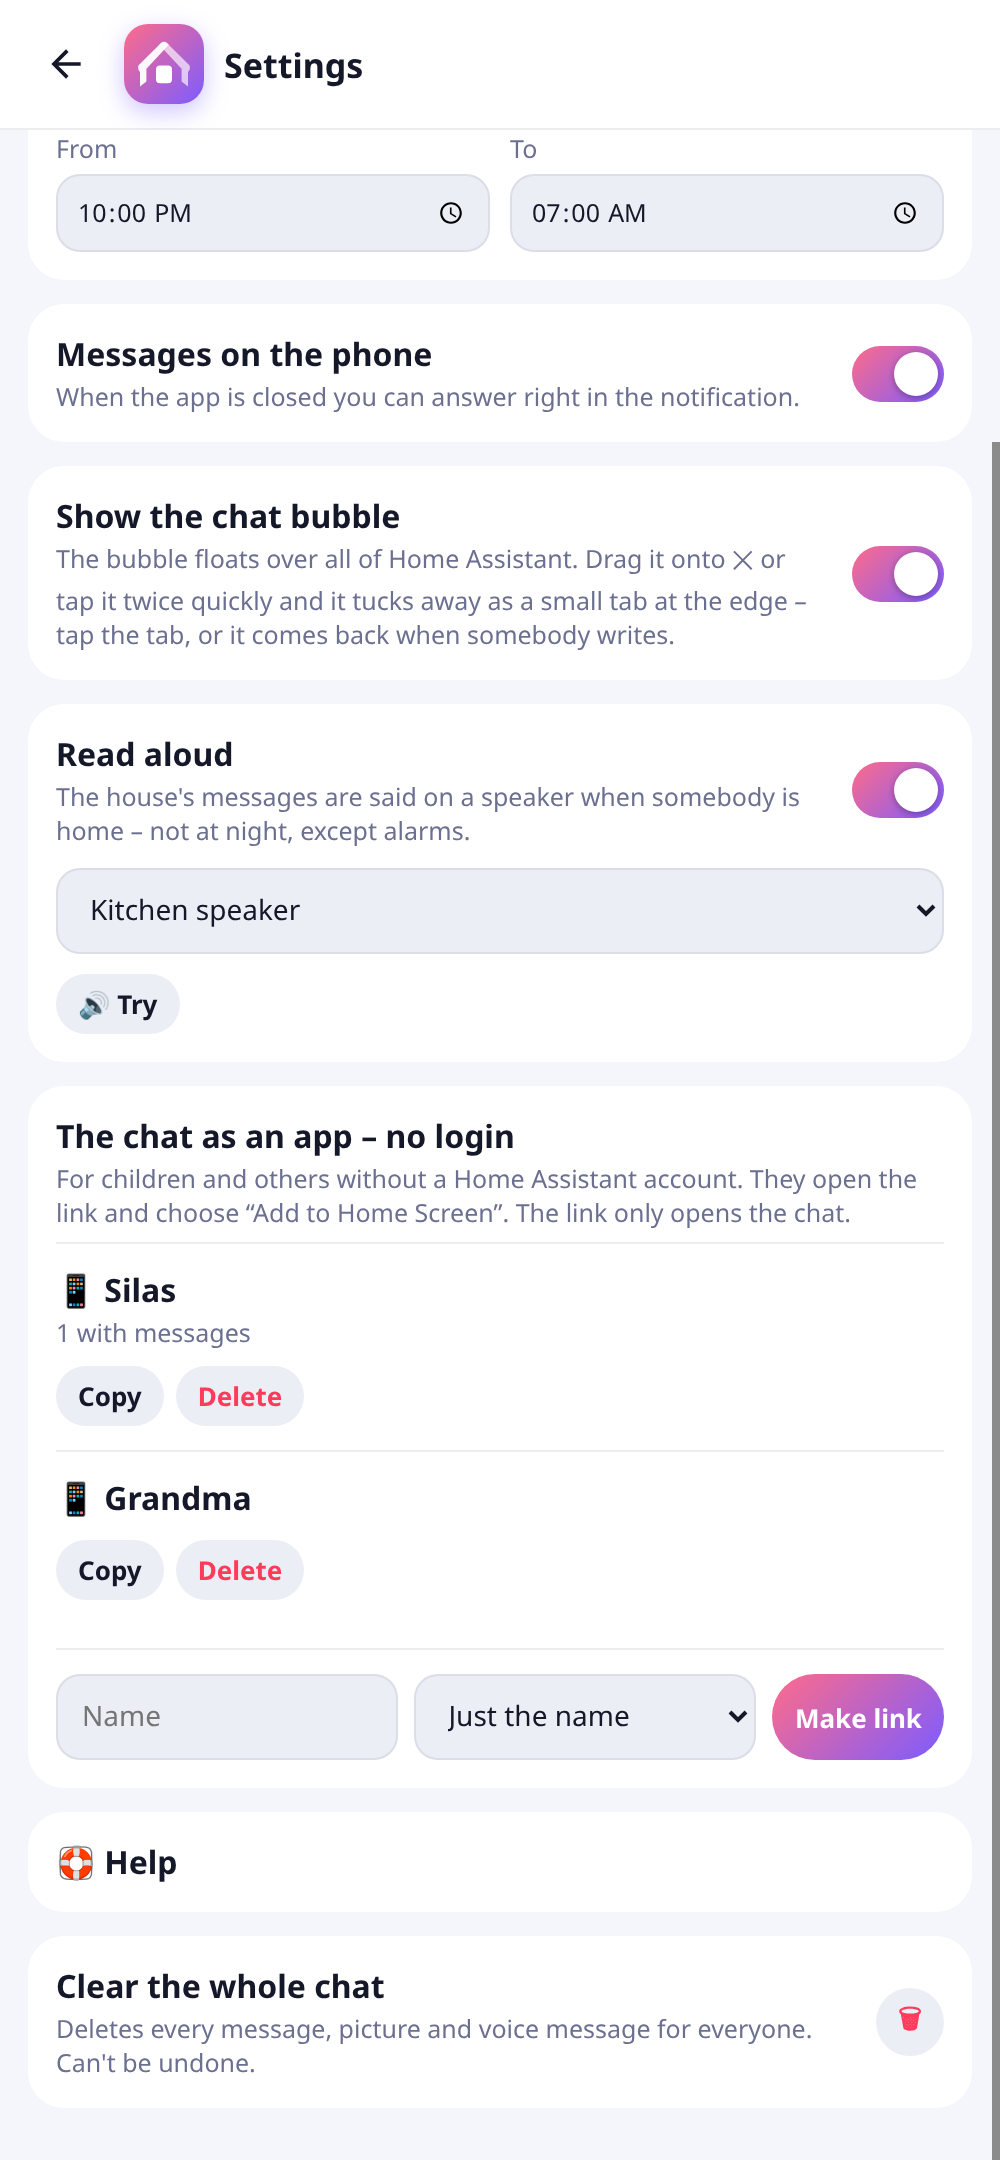
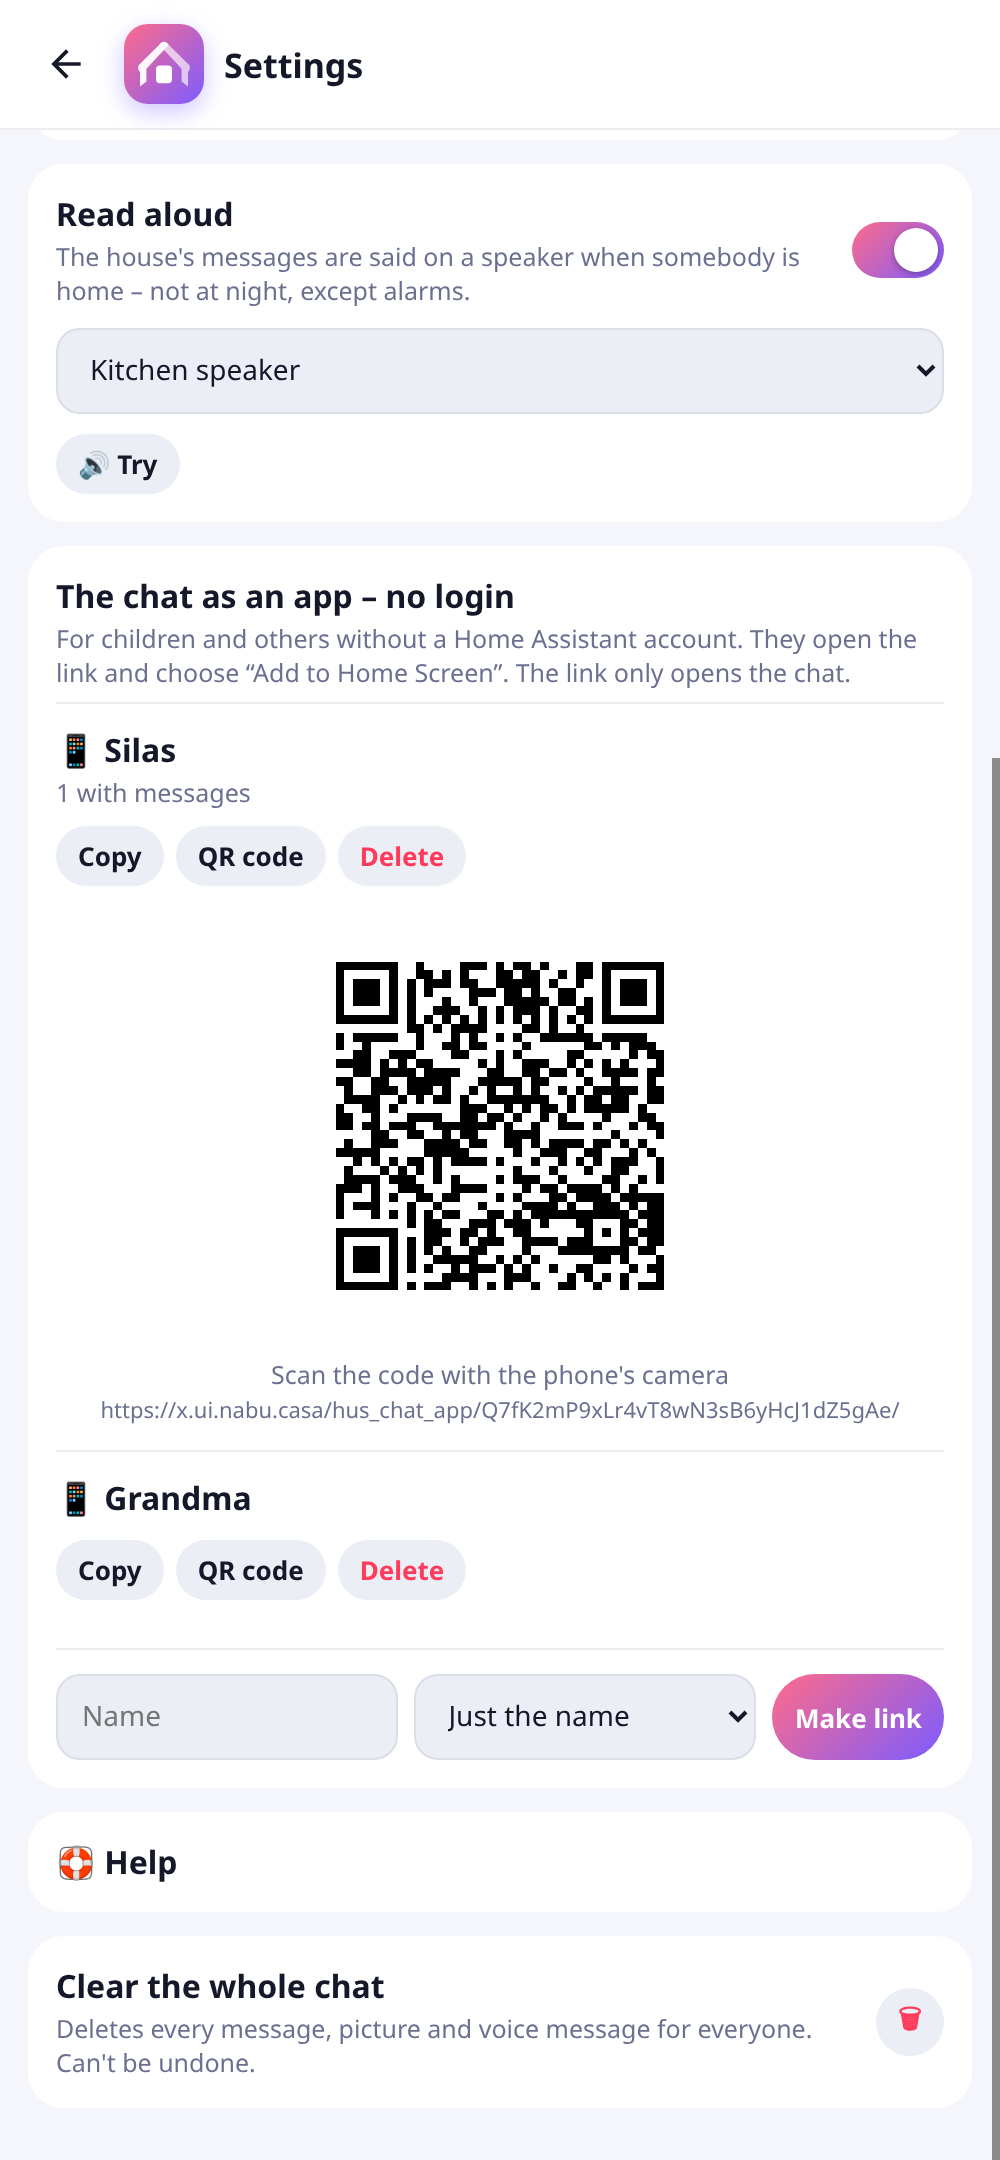
Docs: settings picture with the QR code

diff --git a/README.md b/README.md
@@ -6,7 +6,7 @@
 
 ![House Chat](docs/showcase.png)
 
-<p align="center"><img src="docs/chat_light.png" width="250" alt="The chat"> <img src="docs/chat_dark.png" width="250" alt="Dark theme"> <img src="docs/extras.png" width="250" alt="Picture, poll, on my way home, shopping list"> <img src="docs/app.png" width="250" alt="The app from a link"> <img src="docs/settings.png" width="250" alt="Read aloud and app links"> <img src="docs/actions.png" width="250" alt="React, reply, pin, edit, delete"></p>
+<p align="center"><img src="docs/chat_light.png" width="250" alt="The chat"> <img src="docs/chat_dark.png" width="250" alt="Dark theme"> <img src="docs/extras.png" width="250" alt="Picture, poll, on my way home, shopping list"> <img src="docs/app.png" width="250" alt="The app from a link"> <img src="docs/settings.png" width="250" alt="Read aloud and app links with QR code"> <img src="docs/actions.png" width="250" alt="React, reply, pin, edit, delete"></p>
 
 ## English
 
